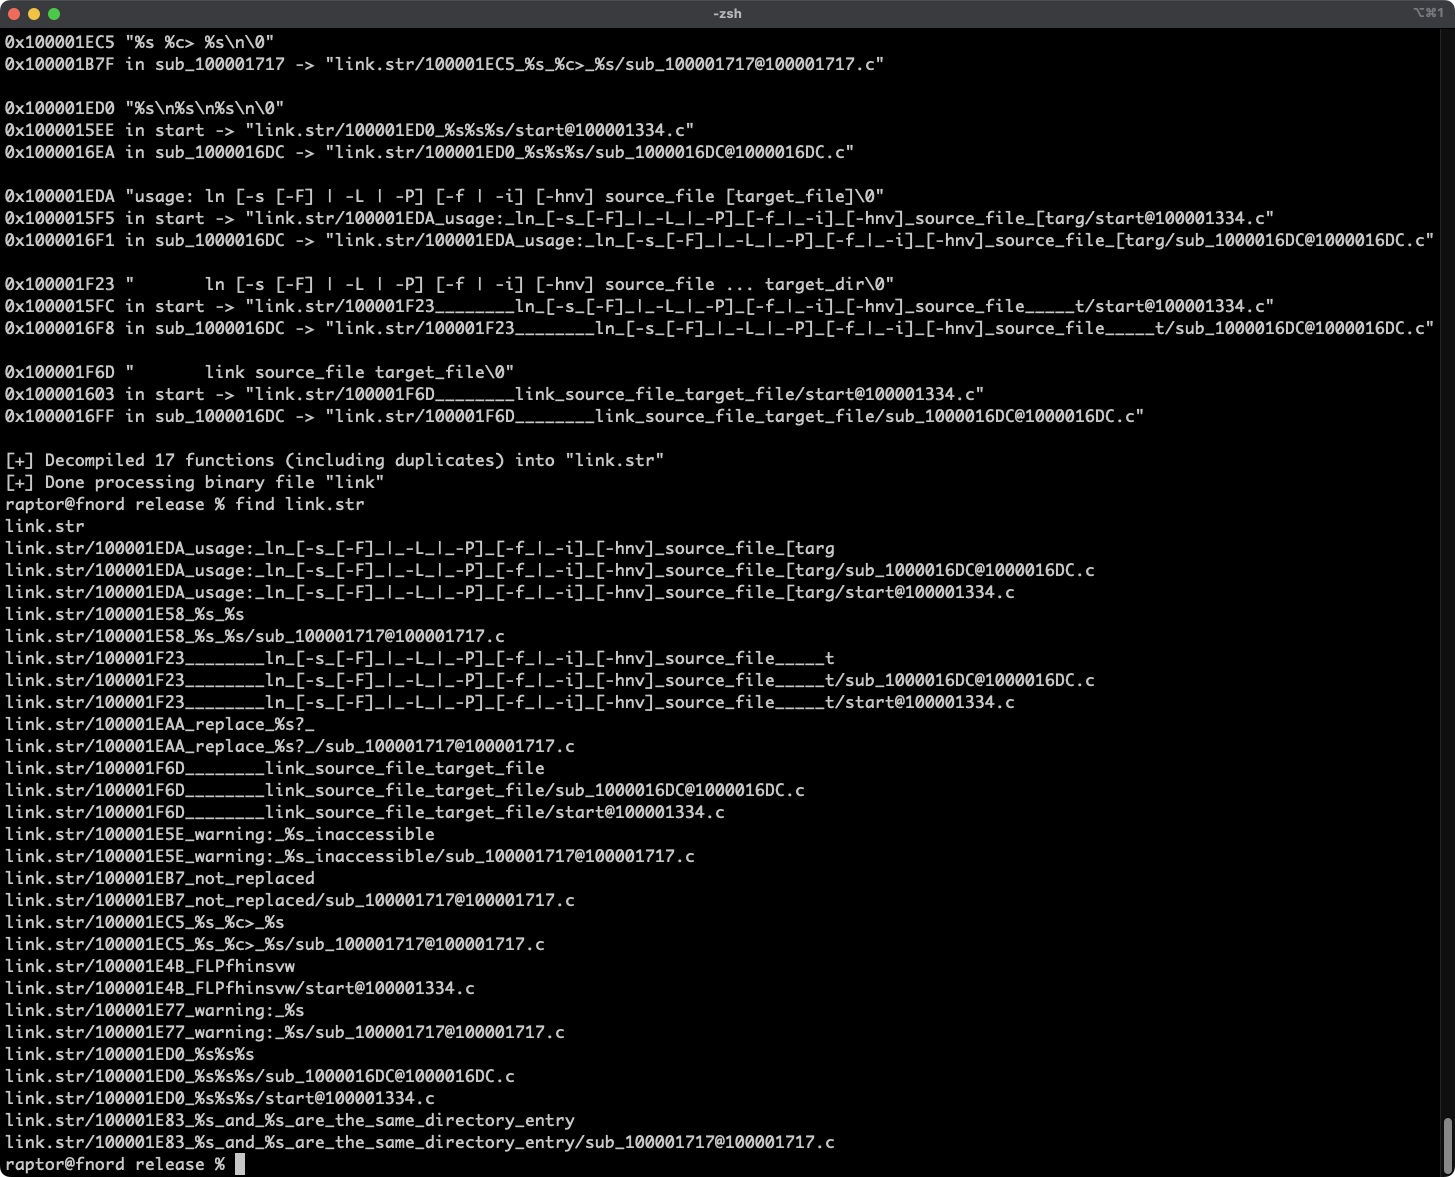
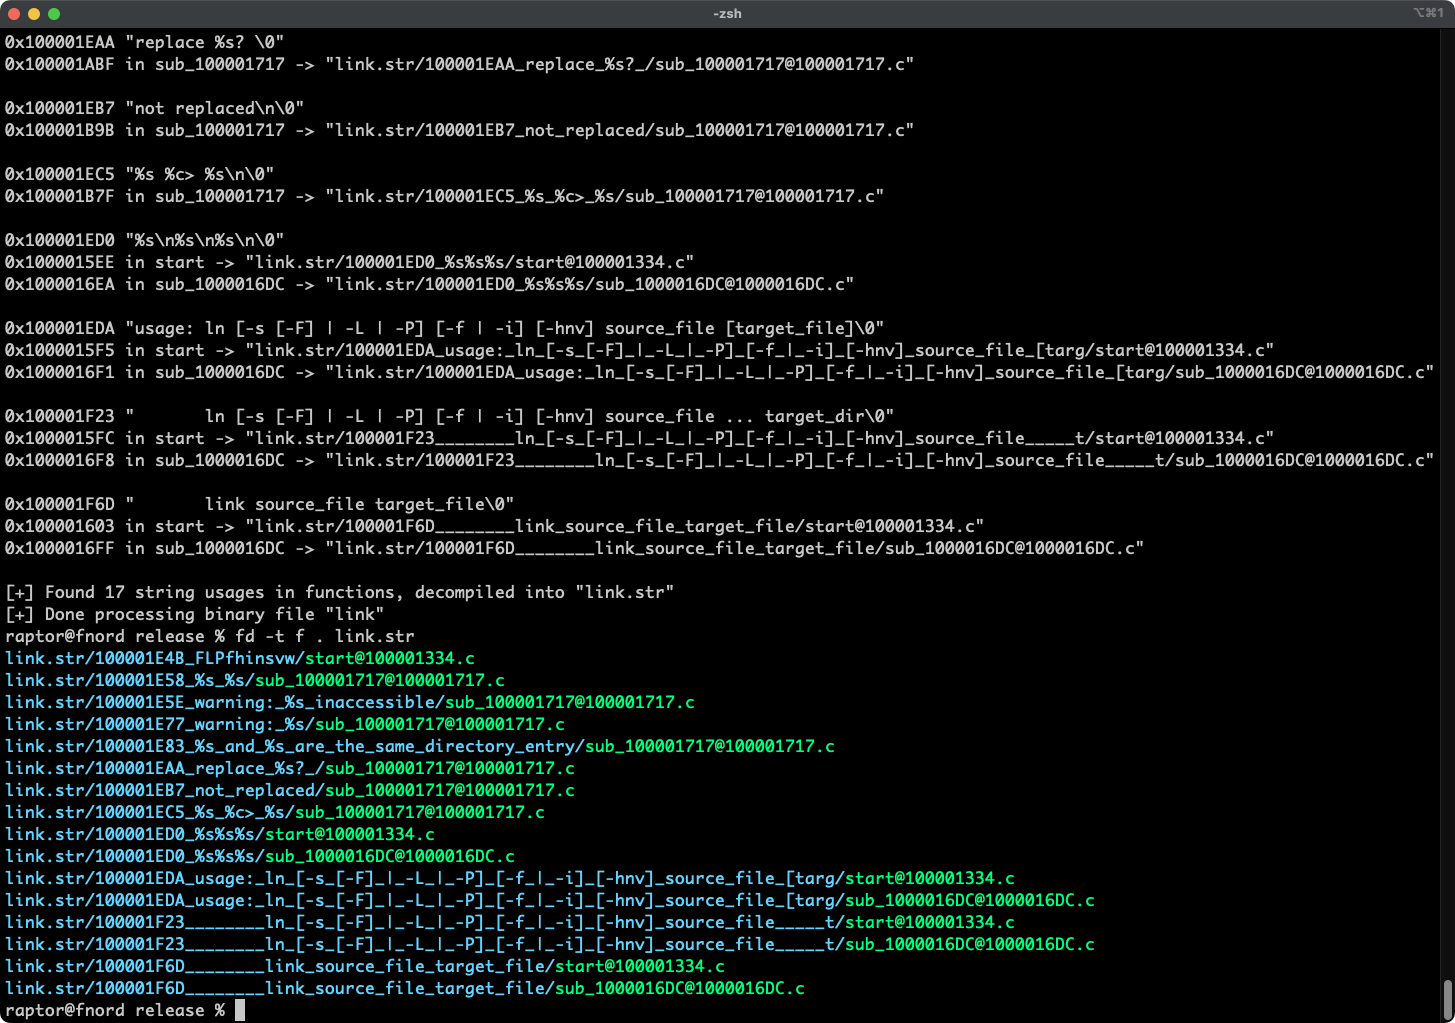
fix: change final summary and update screenshot

Changed region(s): [[0.0, 0.0, 1.0, 1.0], [0.9897, 0.9394, 1.0, 0.9697]]

diff --git a/src/lib.rs b/src/lib.rs
@@ -253,7 +253,7 @@ pub fn run(filepath: &Path) -> anyhow::Result<usize> {
     }
 
     println!();
-    println!("[+] Decompiled {COUNTER:?} functions (including duplicates) into {dirpath:?}");
+    println!("[+] Found {COUNTER:?} string usages in functions, decompiled into {dirpath:?}");
     println!("[+] Done processing binary file {filepath:?}");
     Ok(COUNTER.load(Ordering::Relaxed))
 }
